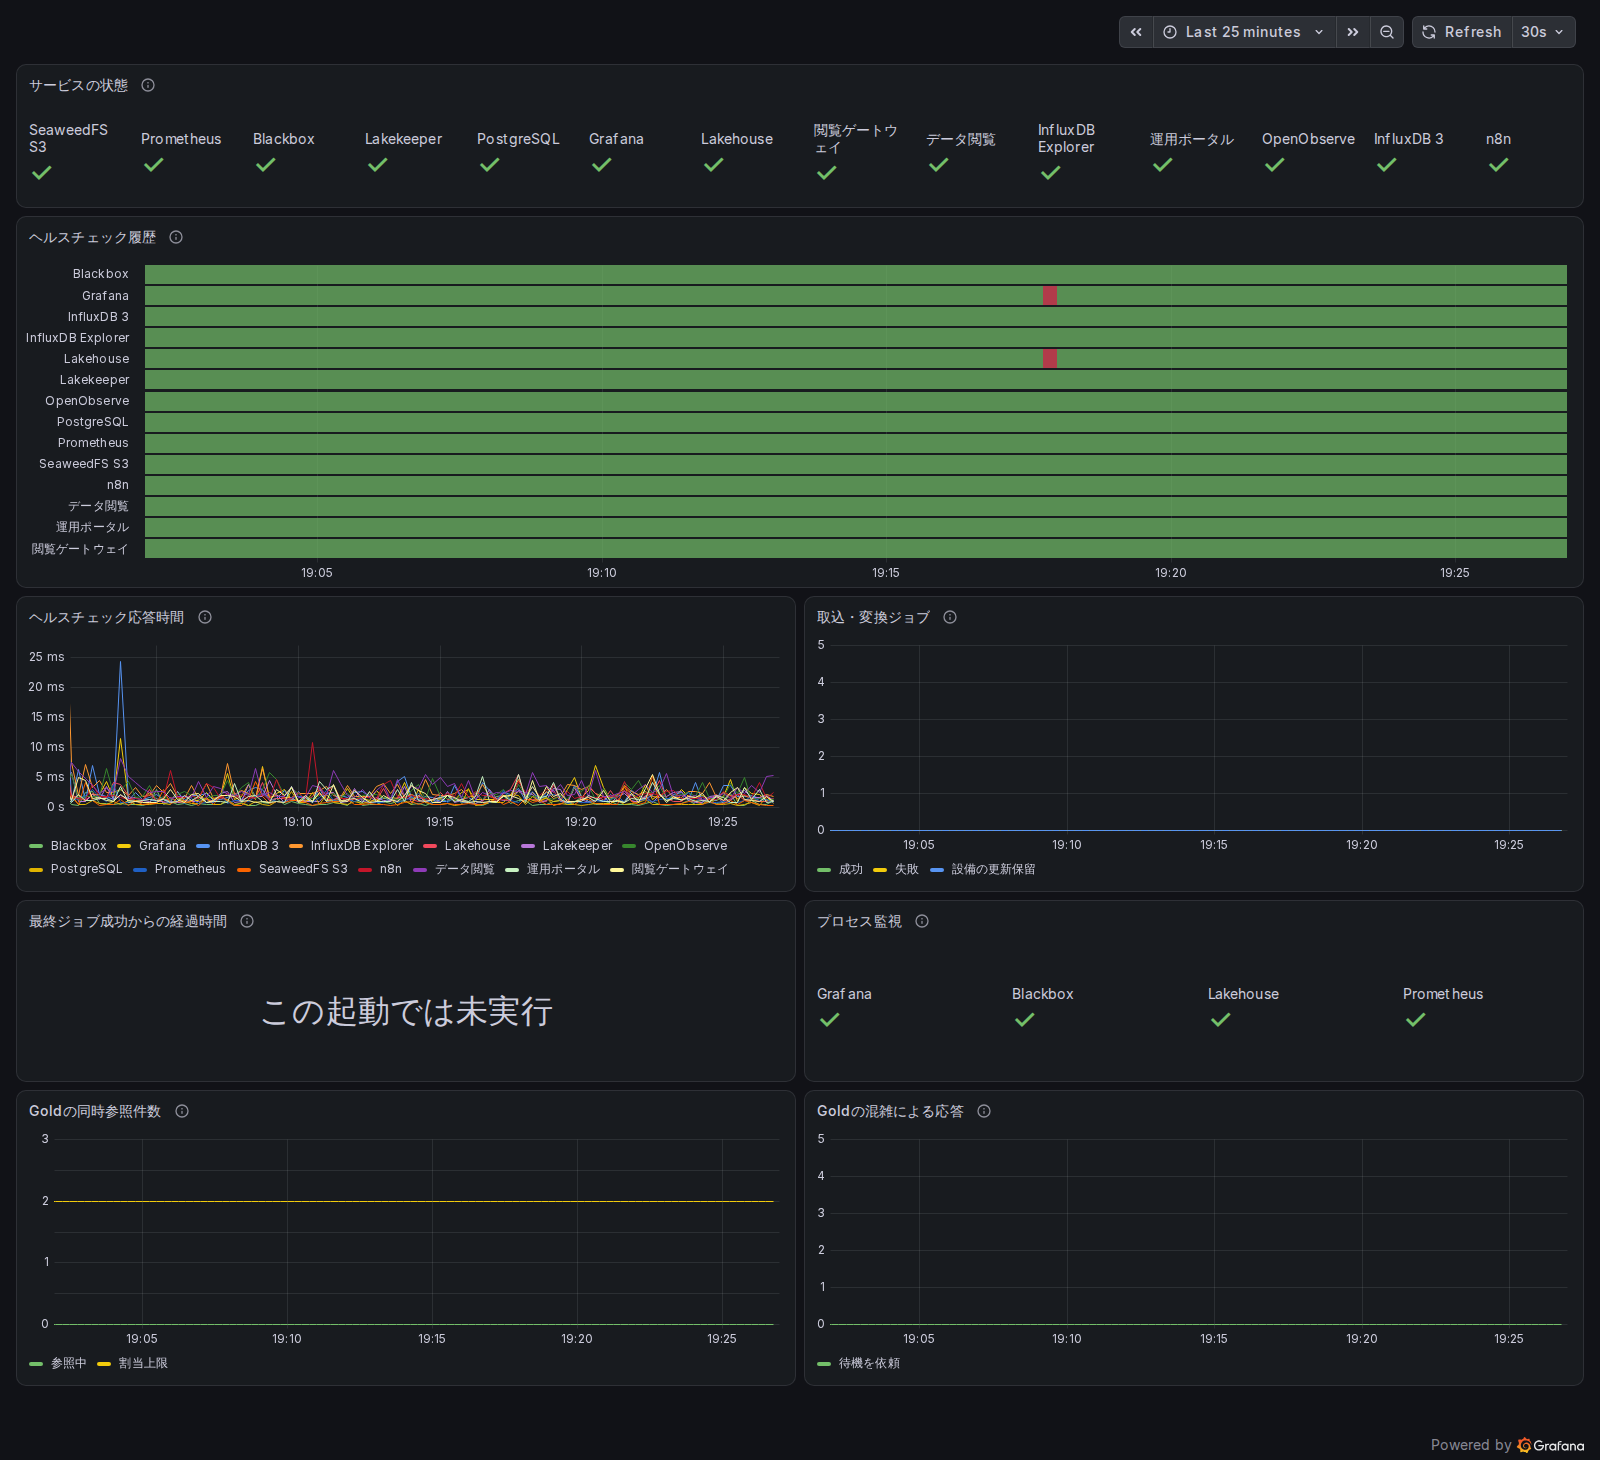
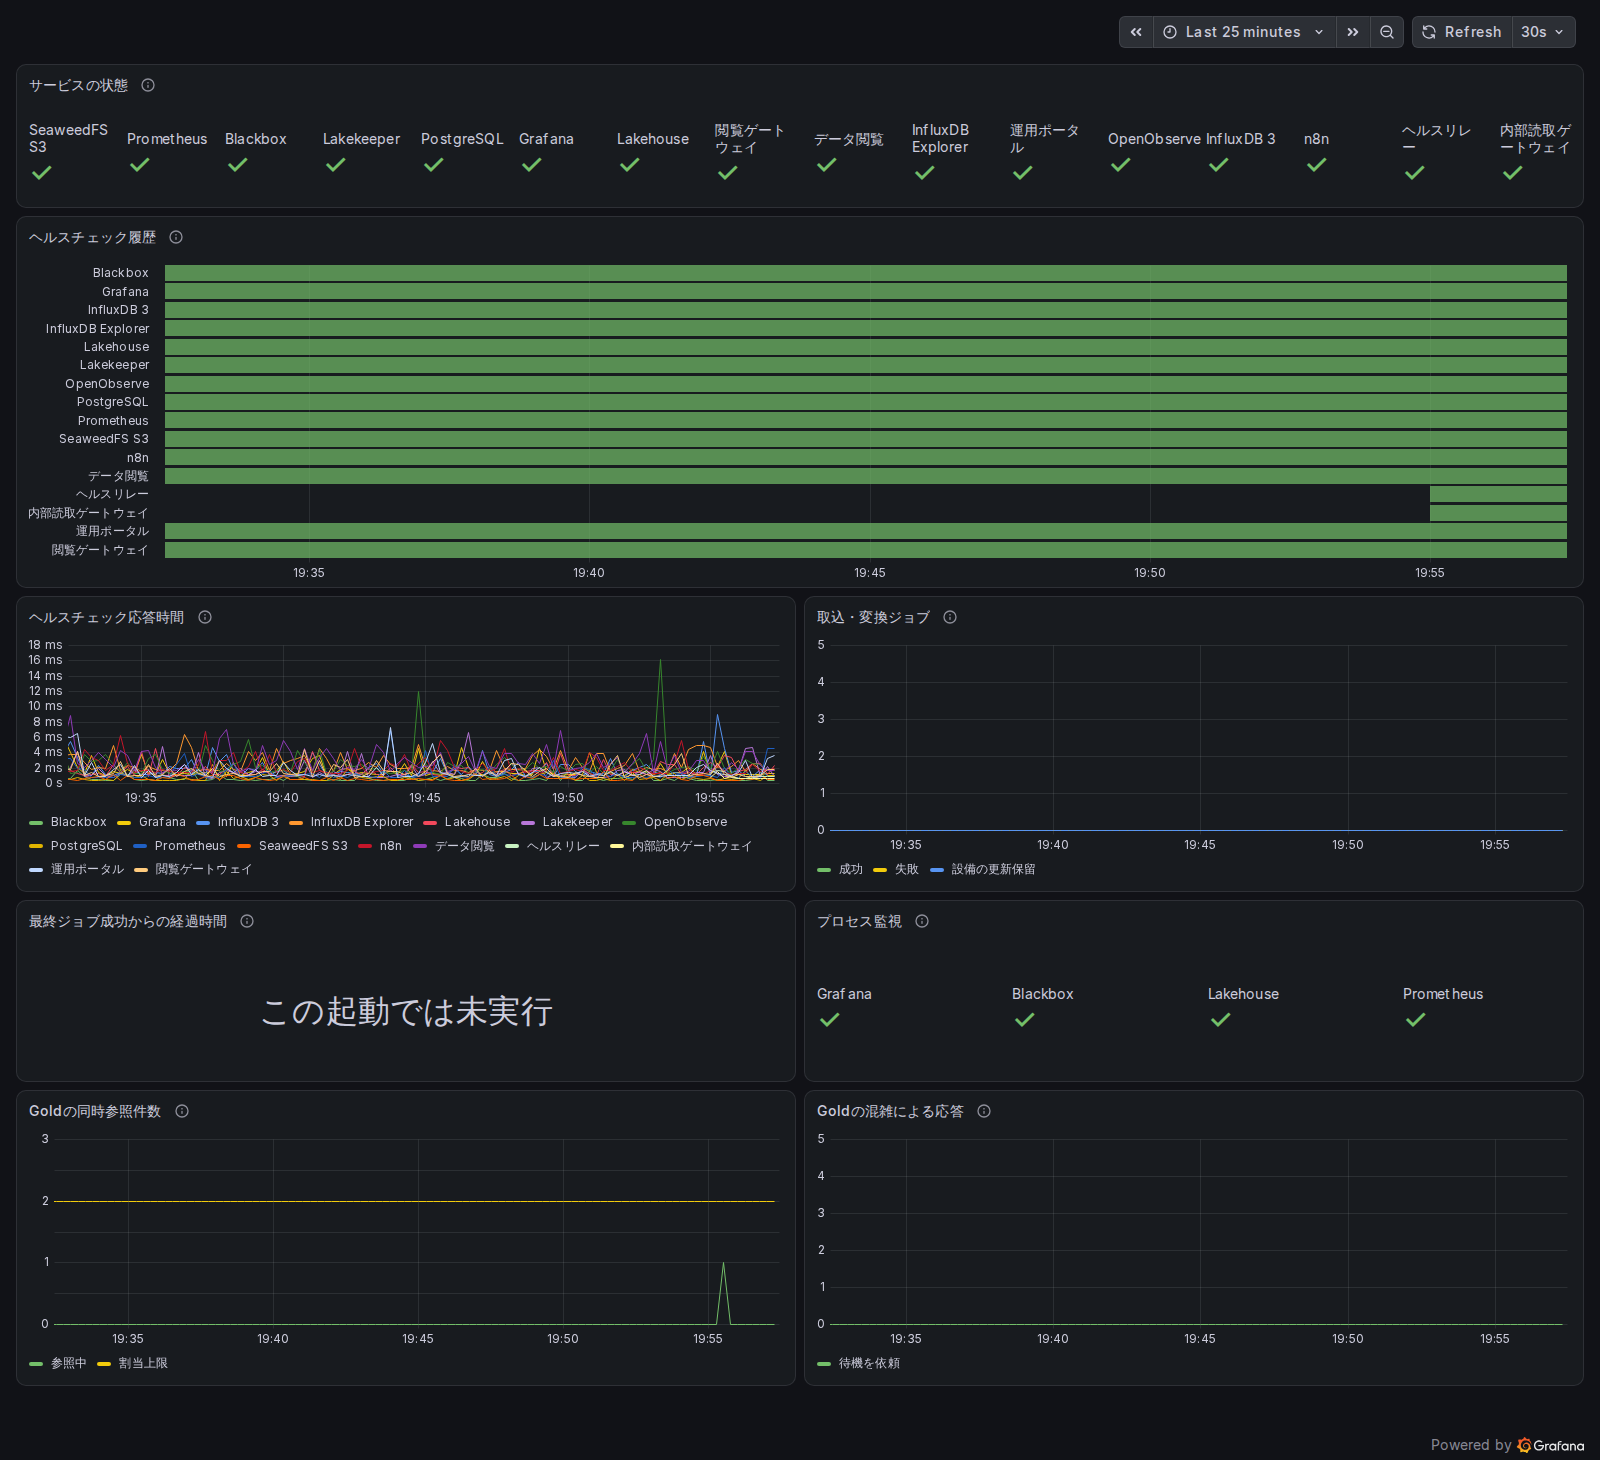
Show the monitored gateways and document optional health checks

diff --git a/scripts/check-source.py b/scripts/check-source.py
@@ -47,6 +47,7 @@ REVIEWED_PNG_SHA256 = {
[1 lines of base64/hex data omitted]
     },
     "docs/native/images/runtime-demo.png": {
[4 lines of base64/hex data omitted]

diff --git a/docs/native/MONITORING.md b/docs/native/MONITORING.md
@@ -27,9 +27,9 @@ ssh -N -o ExitOnForwardFailure=yes \
 
 [OpenSSHのローカル転送](https://man.openbsd.org/ssh#L)
 
-![合成環境でサービスの現在値、メンテナンス後に回復した履歴とGold参照枠を表示したGrafana](images/runtime-demo.png)
+![合成環境で16対象の現在値と履歴、応答時間、取込の状況、Gold参照枠を表示したGrafana](images/runtime-demo.png)
 
-画像は、[閲覧画面](GUI.md) と [運用ツール](TOOLS.md) を追加して計画メンテナンスを行った合成環境の記録です。撮影時は内部2サービスの追加前で、14対象を表示しています。
+画像は、[閲覧画面](GUI.md) と [運用ツール](TOOLS.md) を追加した合成環境です。追加した内部2サービスの履歴は、監視を始めた時点から表示されます。
 
 現在の「サービスの状態」は、標準構成で9対象、閲覧画面付きで11対象、運用ツール付きで14対象、両方付きで16対象を表示します。標準の9対象には内部読取ゲートウェイ `read-api` とヘルスリレー `health-relay` の固定HTTPヘルス経路を含みます。どちらの判定も、そのプロセスが応答できることを示します。監視リレーが停止すると、リレーの先にあるGrafanaや閲覧UIも疎通失敗として表示されます。「プロセス監視」のGrafanaの値と、Dockerのヘルスチェックを合わせて障害箇所を調べます。
 
@@ -40,6 +40,20 @@ ssh -N -o ExitOnForwardFailure=yes \
 ワーカーの再起動時に累計は0へ戻ります。既定は同時2件です。
 メモリとCPUを増やした配備で負荷を確認したうえで、調整する場合は
 `LAKEHOUSE_GOLD_MAX_CONCURRENT` を1〜8の範囲で指定します。
+
+## 追加構成の確認先
+
+| 状況 | 見る場所 | 合格の目安 |
+| --- | --- | --- |
+| カタログの初期化 | Dokployの `catalog-migrate` | 実行が終了してコード0 |
+| 自動化の専用PostgreSQL | Dokployの `tools-db` とGrafanaのn8n | DBがhealthy、n8nのreadinessが応答 |
+| OpenObserveへの転送 | Dokployの `observe-forwarder` とOpenObserve | 転送を選んだ環境でプロセスが起動し、対象の時系列に最新の点が入る |
+| CDCの進み具合 | 認証付きのCDC状態API | `ready: true`、`blocked: false`、会社が決めた遅延以内 |
+| Cloudflareのトンネルと公開用Gold | Zero Trustのトンネル状態と承認済みクライアントのHTTPS | トンネルが接続し、承認済み世代を取得。無認証の要求は拒否 |
+
+[OpenObserveの確認](TOOLS.md#openobserveに監視メトリクスを送る) · [CDCの復旧](CDC-SHADOW.md) · [Cloudflareの受入](CLOUDFLARE.md)
+
+## 設定ファイル
 
 | ファイル | 変更する内容 |
 | --- | --- |
